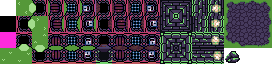
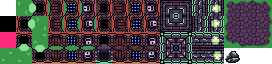
is this easy mdoe?

Changed region(s): [[0.0, 0.0, 1.0, 1.0], [0.6176, 0.125, 0.6765, 0.375], [0.8529, 0.8125, 0.8824, 0.8438]]

diff --git a/changelog.md b/changelog.md
@@ -8,7 +8,7 @@ Monster Mashing - Changelog
 #----------------------------#
 Version 1.1.1 - March XX, 2018
 #----------------------------#
-- Added new tile palette and adjusted systen to swap palettes up to 40k distance
+- Added 2 new tile palettes and adjusted systen to swap palettes up to 50k distance
 - Made it so the menu displays the color palette you died on previously
 - Shrunk enemy hurtbox a tad(metric)
 - Made it so failing to mash a monster girl within 2.5 seconds causes a reduction in speed
